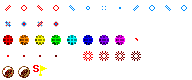
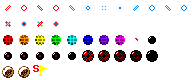
いろいろ

diff --git a/EnemyData0.cpp b/EnemyData0.cpp
@@ -6,10 +6,10 @@ EnemyData0::EnemyData0( ) {
 	_data = {
 		"                          A                                                                                                                           "
 		"                          A                                                                                                                           "
-		"                          A                                                                                                                           "
-		"                          A                                                                                                                           "
-		"                          A                                                                                                                           "
-		"                          A                                                                                                                           "
+		"              B           A                                                                                                                           "
+		"              C           A                                                                                                                           "
+		"              D           A                                                                                                                           "
+		"              E           A                                                                                                                           "
 		"                          A                                                                                                                           "
 		"                          A                                                                                                                           "
 		"                          A                                                                                                                           "

diff --git a/EnemyGaruzakato.cpp b/EnemyGaruzakato.cpp
@@ -14,7 +14,7 @@ EnemyGaruzakato::EnemyGaruzakato( const Vector& pos, PlayerPtr player ) :
 Enemy( pos, 32 , 30 ),
 _time( TIMER ){
 	DrawerPtr drawer = Drawer::getTask( );
-	_image = drawer->createImage( "enemy/enemy_small2.png" );
+	_image = drawer->createImage( "enemy/enemy_small1.png" );
 	_player = player;
 }
 
@@ -34,7 +34,7 @@ void EnemyGaruzakato::act( ) {
 }
 
 void EnemyGaruzakato::draw( ) {
-	_image->setRect( 16 * 5, 16 * 5, 16, 16 );
+	_image->setRect( NORMAL_GRAPH_SIZE * 3, NORMAL_GRAPH_SIZE * 5, NORMAL_GRAPH_SIZE, NORMAL_GRAPH_SIZE );
 	_image->setPos( getPos( ).x, getPos( ).y );
 	_image->draw( );
 }

diff --git a/EnemyBragzakato.cpp b/EnemyBragzakato.cpp
@@ -14,7 +14,7 @@ _attack( false ),
 _count( 0 ) {
 	_player = player;
 	DrawerPtr drawer = Drawer::getTask( );
-	_image = drawer->createImage( "enemy/enemy.png" );
+	_image = drawer->createImage( "enemy/enemy_small2.png" );
 }
 
    
@@ -48,7 +48,7 @@ void EnemyBragzakato::act( ) {
 
 void EnemyBragzakato::draw( ) {
 	Vector pos = getPos( );
-	_image->setRect( NORMAL_GRAPH_SIZE * 1, 0, NORMAL_GRAPH_SIZE, NORMAL_GRAPH_SIZE );
+	_image->setRect( SMALL_GRAPH_SIZE * 3, 0, SMALL_GRAPH_SIZE, SMALL_GRAPH_SIZE );
 	_image->setPos( pos.x, pos.y );
 	_image->draw( );
 }

diff --git a/EnemyWall.cpp b/EnemyWall.cpp
@@ -10,7 +10,7 @@ EnemyWall::EnemyWall( const Vector& pos ) :
 Enemy( pos, 32, 0 ),
 _count( 0 ){
 	DrawerPtr drawer = Drawer::getTask( );
-	_image = drawer->createImage( "enemy/enemy.png" );
+	_image = drawer->createImage( "enemy/enemy_medium.png" );
 }
 
 
@@ -19,7 +19,7 @@ EnemyWall::~EnemyWall( ) {
 
 
 void EnemyWall::act( ) {
-	_count += 0.5;
+	_count++;
 	setVec( MOVE_SPEED );
 	draw( );
 }
